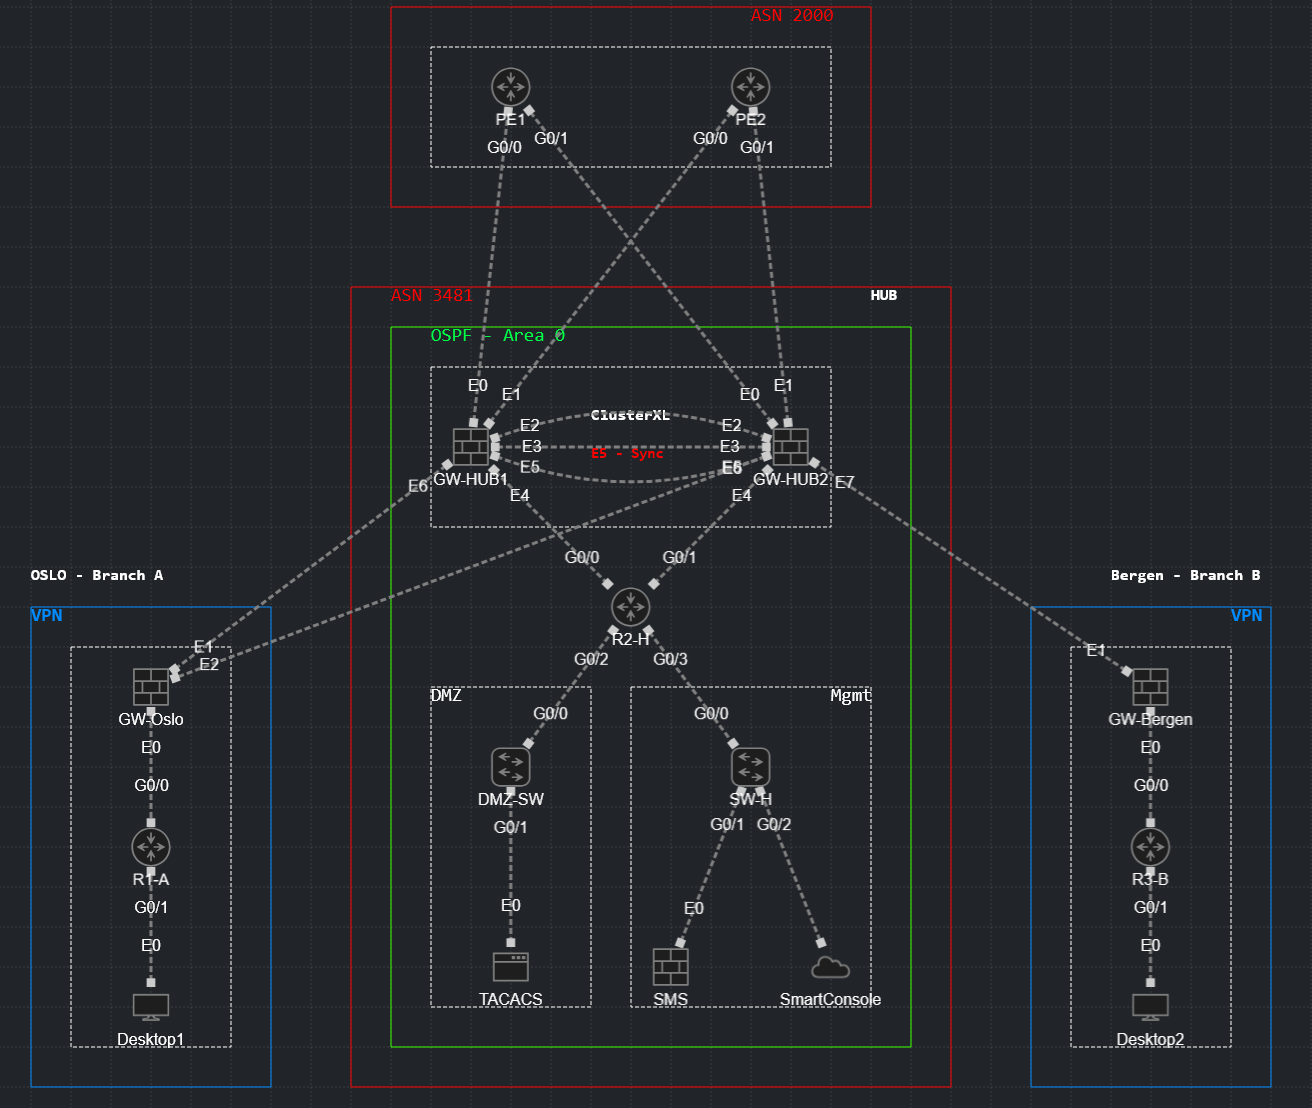
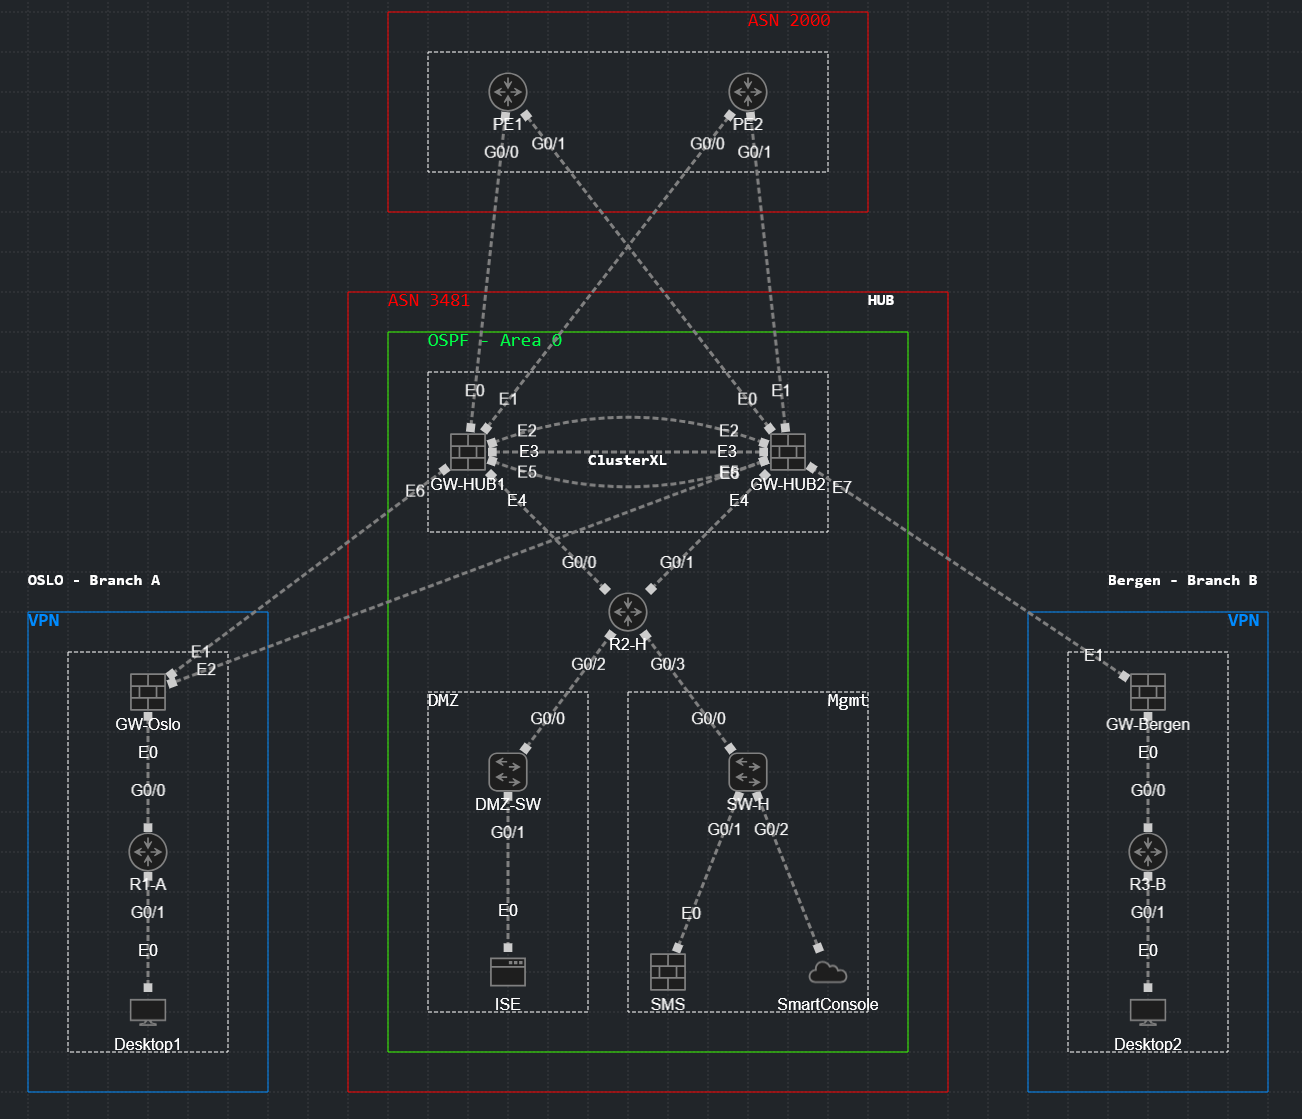
README.md and image update

diff --git a/README.md b/README.md
@@ -1,14 +1,14 @@
 # Project 6 - Check Point R82 Enterprise Security Architecture
 
-This repository features a multi-ASN and multi-site VPN topology built in CML 2.9.0, focusing on Check Point **R82.00** and **R81.20**. Demonstrating ClusterXL HA, centralized management with SMS and SmartConsole, Zero Trust segmentation, and roting with OSPF and BGP. 
+This repository features a multi-ASN and multi-site VPN topology built in CML 2.9.0, focusing on Check Point **R82.00** and **R81.20**. Demonstrating ClusterXL HA, centralized management with SMS and SmartConsole, Zero Trust segmentation, and roting with OSPF and BGP.
 
 ---
 
-## About this lab
+## What this lab does
 
 This lab simulates a multi-site enterprise security infrastructure, using Check Point R82 and R82.10 Quantum Security Gateways:
 
-- **ClusterXL High Availability** - Active/Standby clustering with state synchronization
+- **ClusterXL High Availability** - Active/Standby clustering with bonded sync (eth2/3/4)
 - **Centralized Management** - Security Management Server (SMS) with SmartConsole administration
 - **VPN Communities** - Star topology hub-and-spoke site-to-site VPN
 - **Multi-Layer Security Policy** - Threat Prevention + Access Control with policy layers
@@ -33,7 +33,7 @@ This lab simulates a multi-site enterprise security infrastructure, using Check 
 | Security Gateway | GAiA R82, GAiA R81.20 |
 | vIOS             | 15.9(3) M10           | 
 | Desktop          | Alpine Linux 3.21.3   | 
-| Tacacs Plus      | F4.0.4.28             |
+| Cisco ISE        | ISE 3.4.0             |
 
 ## Lab Requirements
 
@@ -77,9 +77,11 @@ Refer to [notes.md](/notes.md) to tune and enable KSM on CML. It would take up t
 
 ## Notes
 
-This lab builds on previoux experience from **Project 5** (Fortinet Multi-ASN), where I hit an evaluation license which limits at 3 firewall policies on the hub. Project 6 demonstrates a full Check Point capabilities without restriction due to R82's 15-day evaluation license.
+This lab builds on my previous experience from **Project 5** (Fortinet Multi-ASN), where I hit an evaluation icense limit at 3 firewall policies on the hub. Project 6 will demonstrate full Check Point capabilities without those strict restrictions.
 
-The focus of the lab is on **entperise security best practices** using Check Point - logging strategy, policy organization, and Zero Trust. The routing complexity (OSPF + BGP) is intentional to widen my knowledge in dynamic routing protocls integrated with Check Point.
+The focus of this lab is on **enteprise security best practices**, with proper logging atrategy, policy organization, Zero Trust principles, and production-ready architecture. The asymmetric design (OSLO w/ VPN backup, Bergen w/o) is to demonstrate a real-world budget constraint and risk-based decision making.
+
+The routing complexity (OSPF + BGP) is intentional to widen my knowledge in dynamic routing protocls integrated with Check Point.
 
 ---
 
